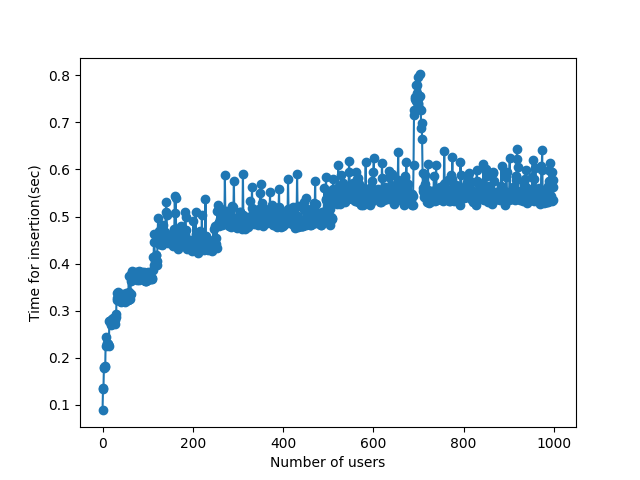
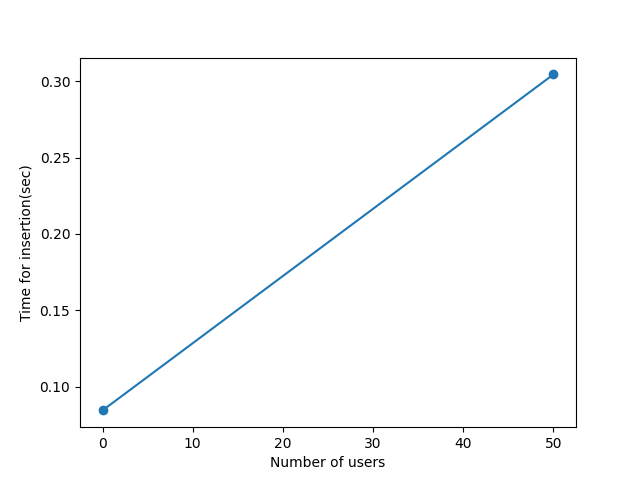
Optimizations and experiments

diff --git a/Node.py b/Node.py
@@ -3,14 +3,27 @@ from Crypto.Util import number
 class Node(object):
     g = 2
     p = number.getPrime(2048)
-    def __init__(self,id):
+    def __init__(self,id,tree):
         self.id = id
-        self.left = None
-        self.right = None
-        self.parent = None
+        # self.left = None
+        # self.right = None
+        # self.parent = None
         self.key = randint(1,int(Node.p-1))
         self.bKey = pow(Node.g,self.key,Node.p)
         self.isLeaf = True
+        self.tree = tree
+    def left(self):
+        return self.tree.left(self)
+    def right(self):
+        return self.tree.right(self)
+    def parent(self):
+        return self.tree.parent(self)
+    def setLeft(self,node):
+        self.tree.setLeft(self,node)
+    def setRight(self,node):
+        self.tree.setRight(self,node)
+    def setParent(self,node):
+        self.tree.setParent(self,node)
     def copyDataFrom(self,source, resetSource = True):
         self.key = source.key
         self.bKey = source.bKey
@@ -19,31 +32,39 @@ class Node(object):
             source.bKey = 0
     def recalculateKeyPath(self):
         curNode = self
-        while(curNode is not None):
+        while(1):
             if(not curNode.isLeaf):
-                curNode.key = pow(curNode.right.bKey,curNode.left.key,Node.p)
+                curNode.key = pow(curNode.right().bKey,curNode.left().key,Node.p)
                 curNode.bKey = pow(Node.g,curNode.key,Node.p)
-            curNode = curNode.parent
+            
+            parNode = curNode.parent()
+            if(parNode==curNode):
+                return 
+            else:
+                curNode=parNode
     def verifyIntegrity(self):
         if self.isLeaf :
             
-            if (self.left is None and self.right is None and self.verifyNodeIntegrity()):
+            if (self.left() is None and self.right() is None and self.verifyNodeIntegrity()):
                 return True
             else:
+                print("Broken leaf node in tree at id =  ",self.id)
                 return False
         else:
             
-            if (self.left.verifyIntegrity() and self.right.verifyIntegrity()) and self.verifyNodeIntegrity() and (self.left is not None and self.right is not None):
+            if (self.left().verifyIntegrity() and self.right().verifyIntegrity()) and self.verifyNodeIntegrity() and (self.left() is not None and self.right() is not None):
                 return True
+            print("Broken tree at id =  ",self.id)
             return False
     def verifyNodeIntegrity(self):
         if self.bKey == pow(Node.g,self.key,Node.p):
             return True
+        print("Broken node at id = ",self.id)
         return False
     def recursivePrint(self):
         """Returns list of strings, width, height, and horizontal coordinate of the root."""
         # No child.
-        if self.right is None and self.left is None:
+        if self.right() is None and self.left() is None:
             line = '%s' % self.id
             width = len(line)
             height = 1
@@ -51,8 +72,8 @@ class Node(object):
             return [line], width, height, middle
 
         # Only left child.
-        if self.right is None:
-            lines, n, p, x = self.left.recursivePrint()
+        if self.right() is None :
+            lines, n, p, x = self.left().recursivePrint()
             s = '%s' % self.id
             u = len(s)
             firstLine = (x + 1) * ' ' + (n - x - 1) * '_' + s
@@ -61,8 +82,8 @@ class Node(object):
             return [firstLine, secondLine] + shifted_lines, n + u, p + 2, n + u // 2
 
         # Only right child.
-        if self.left is None:
-            lines, n, p, x = self.right.recursivePrint()
+        if self.left() is None :
+            lines, n, p, x = self.right().recursivePrint()
             s = '%s' % self.id
             u = len(s)
             firstLine = s + x * '_' + (n - x) * ' '
@@ -71,8 +92,8 @@ class Node(object):
             return [firstLine, secondLine] + shifted_lines, n + u, p + 2, u // 2
 
         # Two children.
-        left, n, p, x = self.left.recursivePrint()
-        right, m, q, y = self.right.recursivePrint()
+        left, n, p, x = self.left().recursivePrint()
+        right, m, q, y = self.right().recursivePrint()
         s = '%s' % self.id
         u = len(s)
         firstLine = (x + 1) * ' ' + (n - x - 1) * '_' + s + y * '_' + (m - y) * ' '

diff --git a/tree.py b/tree.py
@@ -16,39 +16,86 @@ from Node import Node
 import time
 from collections import deque
 import matplotlib.pyplot as plt
+import pickle
 class Tree(object):
-    def __init__(self):
+    def __init__(self,maxSize = 10000):
         
-        self.root = Node(0)
+        self.root = Node(0,self)
+        
+        self.array = [self.root] + list([None]*(2*maxSize+10))
+        
         self.nodeCount = 1
         self.queue = deque()
         self.queue.append(self.root)
+
+    def left(self,node):
+        x =  self.array[2*node.id + 1]
+        return x
+    def right(self,node):
+        x =  self.array[2*node.id + 2]
+        return x
+    def parent(self,node):
+        if(node.id==0):
+            x =  node
+        else:
+            x =  self.array[((node.id)-1)//2]
+        return x 
+    def setLeft(self,x,target):
+        self.array[2*x.id + 1] = target
+    def setRight(self,x,target):
+        self.array[2*x.id + 2] = target
+    def setParent(self,x,target):
+        if(x.id==0):
+            return 
+        self.array[(x.id-1)//2] = target
+    def setLeaf(self,x):
+        
+        self.setLeft(x,None)
+        self.setRight(x,None)
+
+        x.isLeaf=True
     def findSponsor(self):
         front = self.queue[0]
-        if(front.left is None and front.right is None):
+        if(front.left() is None and front.right() is None):
             self.queue.popleft()
             return front
         else:
             print("Node deformed")
+            return None
     def insertNewUser(self):
         sponsor = self.findSponsor()
         leftNewNode = self.createNode()
         self.queue.append(leftNewNode)
         rightNewNode = self.createNode()
         self.queue.append(rightNewNode)
-        leftNewNode.parent = sponsor
-        rightNewNode.parent = sponsor
+        leftNewNode.setParent(sponsor)
+        rightNewNode.setParent(sponsor)
         leftNewNode.copyDataFrom(sponsor)
         sponsor.isLeaf = False
         
-        sponsor.left = leftNewNode
-        sponsor.right = rightNewNode
+        sponsor.setLeft(leftNewNode)
+        sponsor.setRight(rightNewNode)
         sponsor.recalculateKeyPath()
-    def removeUser(self):
+    def deleteNewUser(self):
+        toDelete = self.queue[-1]
+        
+        if(toDelete.parent().left().id==toDelete.id):
+            toDelete.parent().copyDataFrom(toDelete.parent().right())
+        
+        else:
+            toDelete.parent().copyDataFrom(toDelete.parent().left())
+        self.setLeaf(toDelete.parent())
+        toDelete.parent().recalculateKeyPath()
+        
+        self.queue.pop()
+        self.queue.pop()
+        self.queue.appendleft(toDelete.parent())
+        
+    def removeUser(self,id):
         pass
     
     def createNode(self):
-        newNode = Node(self.nodeCount)
+        newNode = Node(self.nodeCount,self)
         self.nodeCount+=1
         return newNode
     
@@ -63,19 +110,47 @@ class Tree(object):
         return output
 
 
-NUM_NODES=1000 
+NUM_NODES=10000 
 tree = Tree()
 y = []
+x = []
 for i in range(NUM_NODES):
     start = time.time()
     tree.insertNewUser()
     end = time.time()
-    y.append(end - start)
-x= list(range(NUM_NODES))
-
+    if(i%50==0):
+        print(i)
+        y.append(end - start)
+        x.append(i)
+print(tree.verifyTreeIntegrity())
+data=[x,y]
+file=open("insertion_time","wb")
+pickle.dump(data,file)
+file.close()
 plt.plot(x,y,"o-")
 plt.xlabel("Number of users")
 plt.ylabel("Time for insertion(sec)")
 plt.savefig("./insertion_time_plot.png")
+plt.clf()
+x=[]
+y=[]
+for i in range(NUM_NODES):
+    start = time.time()
+    tree.deleteNewUser()
+    end = time.time()
+    if(i%50==0):
+        print(i)
+        y.append(end - start)
+        x.append(NUM_NODES-(i+1))
+    
+print(tree.verifyTreeIntegrity())
+data=[x,y]
+file=open("deletion_time","wb")
+pickle.dump(data,file)
+file.close()
+plt.plot(x,y,"o-")
+plt.xlabel("Number of users")
+plt.ylabel("Time for deletion(sec)")
+plt.savefig("./deletion_time_plot.png")
 plt.show()
-# print(tree.verifyTreeIntegrity())
+
